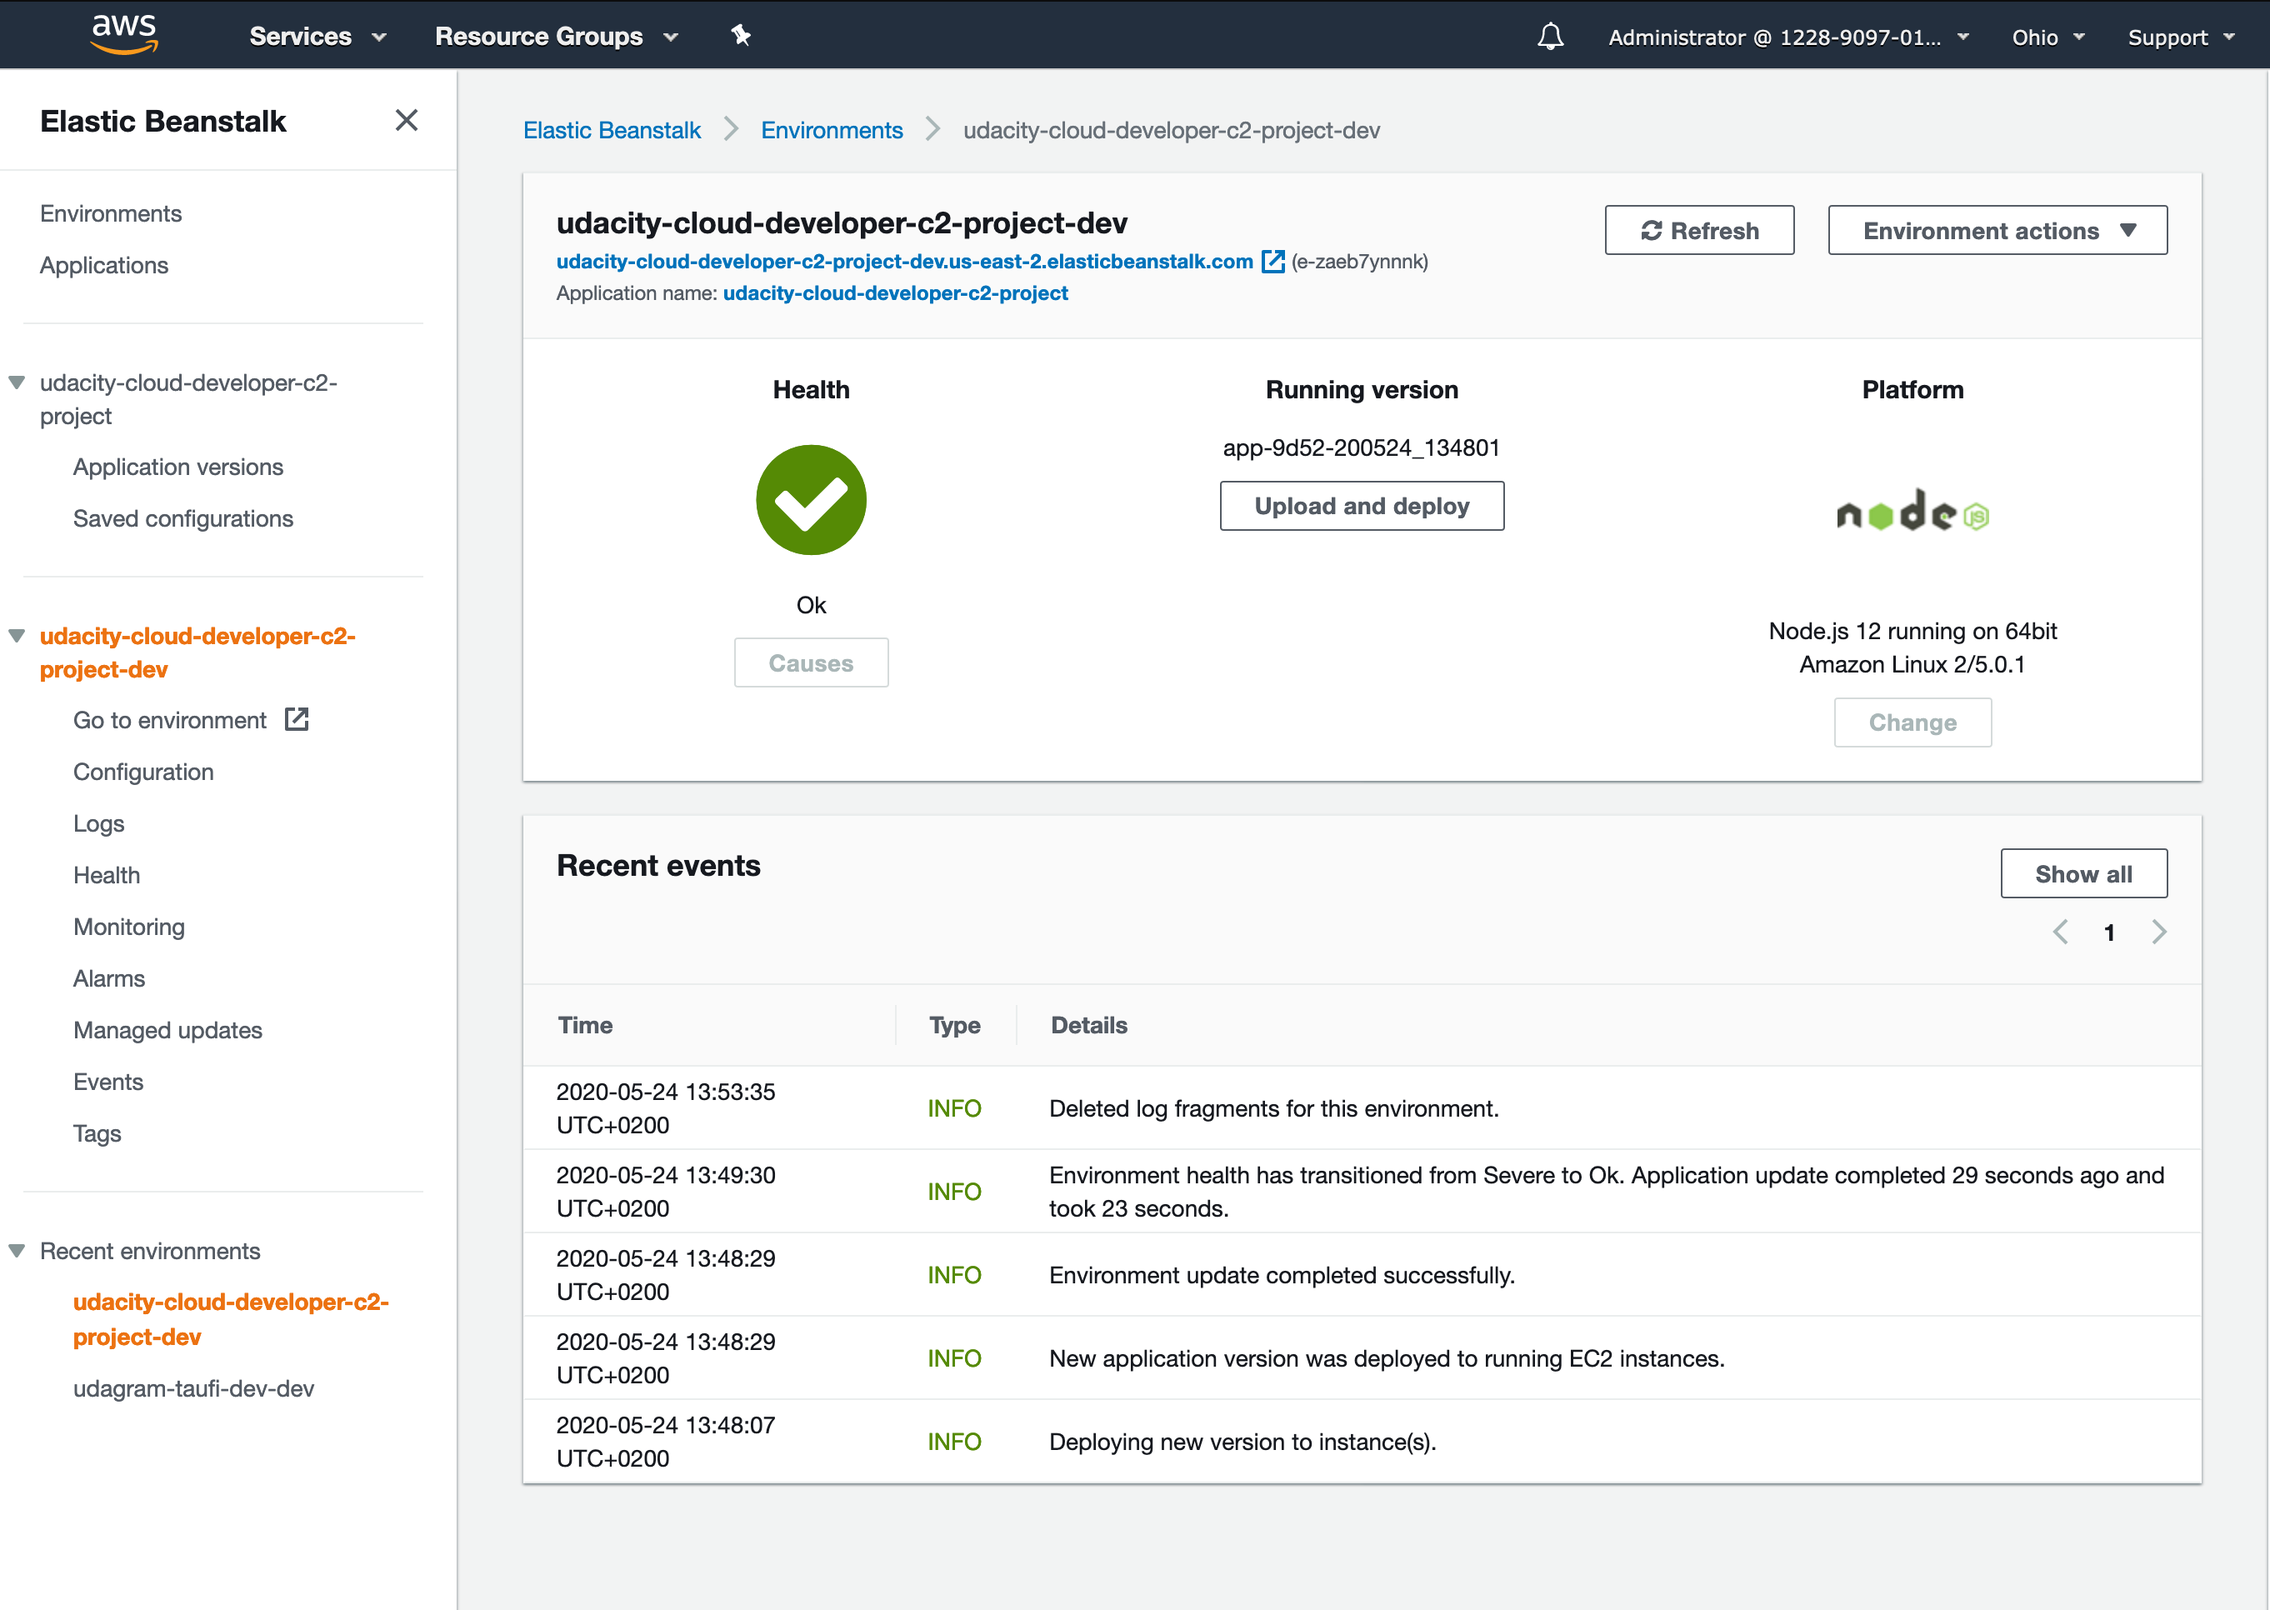
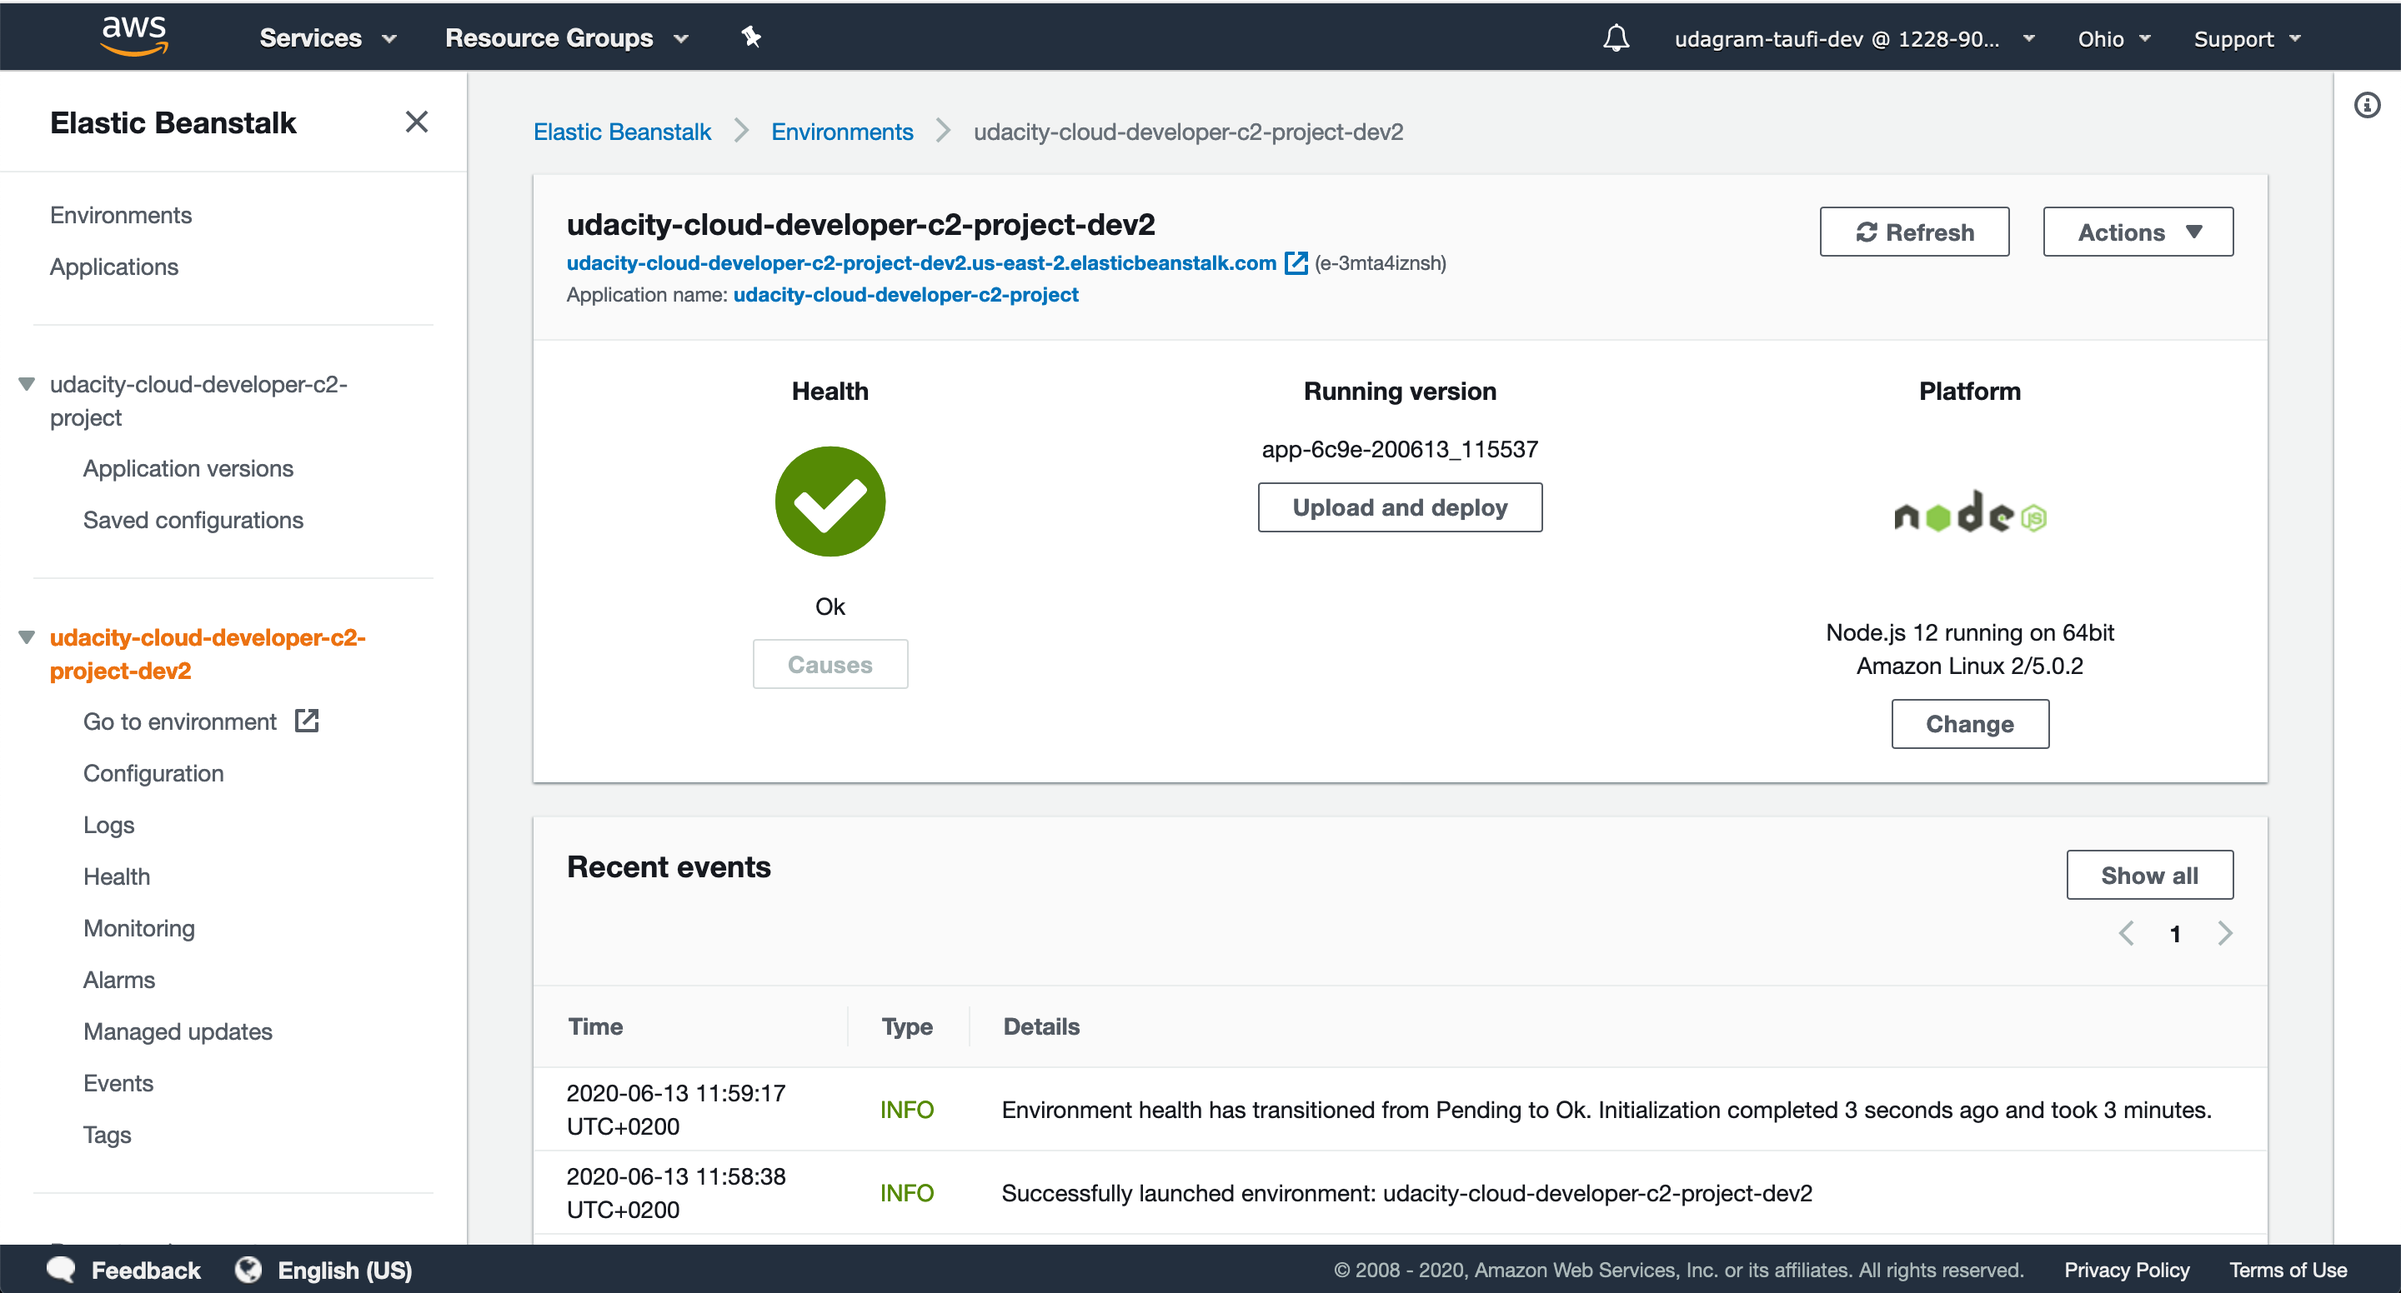
change elastik beanstalk url

diff --git a/README.md b/README.md
@@ -6,5 +6,5 @@
 
 1. The code is in [this directory](https://github.com/Taufi/udacity-cloud-developer-c2-project) 
 2. A screenshot of the elastic beanstalk application dashboard is in [here](https://github.com/Taufi/udacity-cloud-developer-c2-project/blob/master/deployment_screenshots)
-3. This is the [endpoint URL](http://udacity-cloud-developer-c2-project-dev.us-east-2.elasticbeanstalk.com) for my running elastic beanstalk deployment. An example of a filtered image is [here](http://udacity-cloud-developer-c2-project-dev.us-east-2.elasticbeanstalk.com/filteredimage?image_url=https://homepages.cae.wisc.edu/~ece533/images/watch.png)
+3. This is the [endpoint URL](http://udacity-cloud-developer-c2-project-dev2.us-east-2.elasticbeanstalk.com) for my running elastic beanstalk deployment. An example of a filtered image is [here](http://udacity-cloud-developer-c2-project-dev2.us-east-2.elasticbeanstalk.com/filteredimage?image_url=https://homepages.cae.wisc.edu/~ece533/images/watch.png)
 
